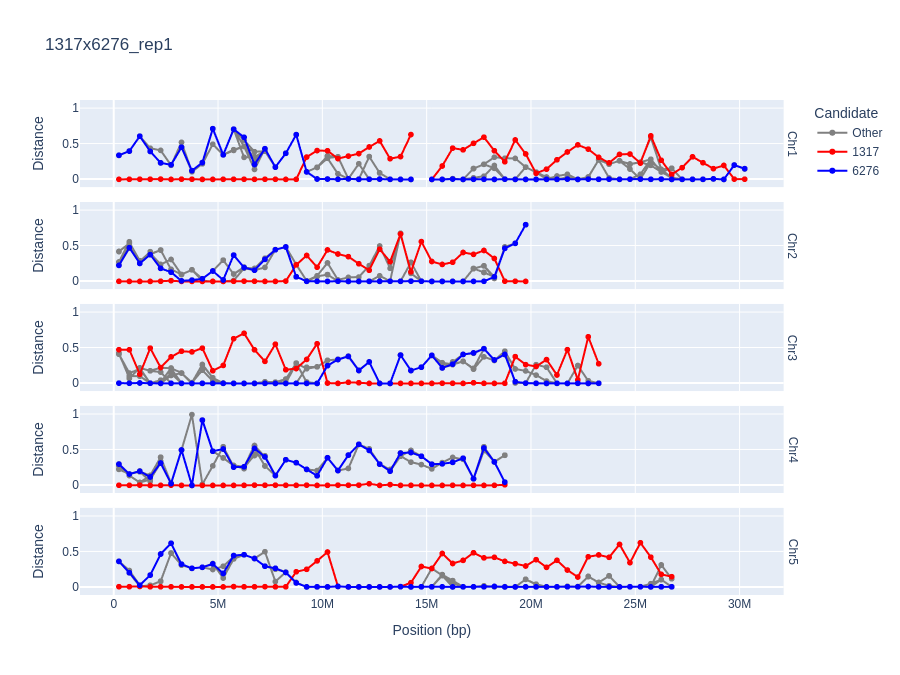
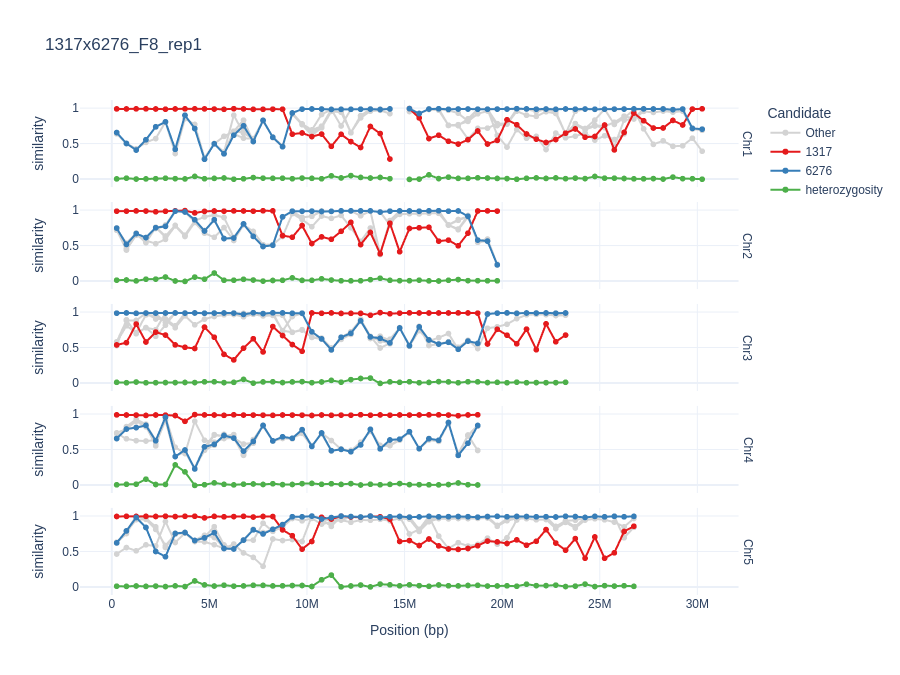
Updated readme to state that plots show similarities, not distances.
On branch main
 Changes to be committed:
	modified:   1317x6276_rep1_plot_ibd.png
	modified:   README.md

diff --git a/README.md b/README.md
@@ -32,7 +32,7 @@ on the generation.
 `ibdpainting` is a tool to visualise this mosaic pattern by 'painting' the
 pattern of IBD across the genome.
 
-For examples of the output and the interpretation of different patterns, see [the examples here](https://ellisztamas.github.io/assets/06_ibdpainting_results.html).
+For examples of the output and the interpretation of different patterns, see [the examples here](https://ellisztamas.github.io/assets/06_ibdpainting_results.html) (Note that this was created with an earlier version of `ibdpainting` and the y-axes show *distances* not *similarities*).
 
 ## Installation
 
@@ -163,33 +163,36 @@ called as heterozygous in each window.
 `ibdpainting` creates two files for every sample by default, with further 
 optional outputs.
 
-For examples of the output and the interpretation of different patterns, see [the examples here](https://ellisztamas.github.io/assets/06_ibdpainting_results.html).
-
-
 ### Plot of genetic distances across the genome
 
 The main results is an image file with the name of the sample name followed
 by `_ibd.png` file.
 This shows the position of windows along each chromomosome along the x-axis, and
-the genetic distance from the progeny to each candidate along the y-axis.
+the genetic similarity from the progeny to each candidate along the y-axis.
 If a candidate parent is IBD to the progeny, points on the 
-y-axis should be zero, genotyping errors notwithstanding.
+y-axis should be one, genotyping errors notwithstanding.
 Candidate parents given as expected parents will be shown with coloured lines.
 The next-closest other candidates are shown in grey.
 
 Here is an example of a plot for an F9 individual from a cross between lines
 1317 and 6276.
-You can see that either the genetic distance from the F9 to one of the parents
-(the red and blue lines) are close to zero in every window.
+You can see that either the genetic similarity from the F9 to one of the parents
+(the red and blue lines) are close to one in every window.
 This indicates that the parents are correct, and the F9 is homozygous for one or
 the other parental genotype across the genome.
 The grey lines are for other candidate parents, and none are a good match.
+This is exactly what you would expect for an inbred F9 individual.
 
 ![](1317x6276_rep1_plot_ibd.png)
 
 It can be helpful or distracting to also plot the proportion of heterozygous
 calls (i.e. `0/1` and `1/0` in the VCF file) in the offsping.
 This can be set with the flag `--plot_heterozygosity`.
+In the case above you can see that no windows show evidence of heterozygosity.
+
+For more examples of the output and the interpretation of different patterns, see [the examples here](https://ellisztamas.github.io/assets/06_ibdpainting_results.html).
+Note that this was created with an earlier version of `ibdpainting` and the y-axes show *distances* not *similarities*.
+That means that values close to zero reflect a close match.
 
 ### Scores for each pair
 
